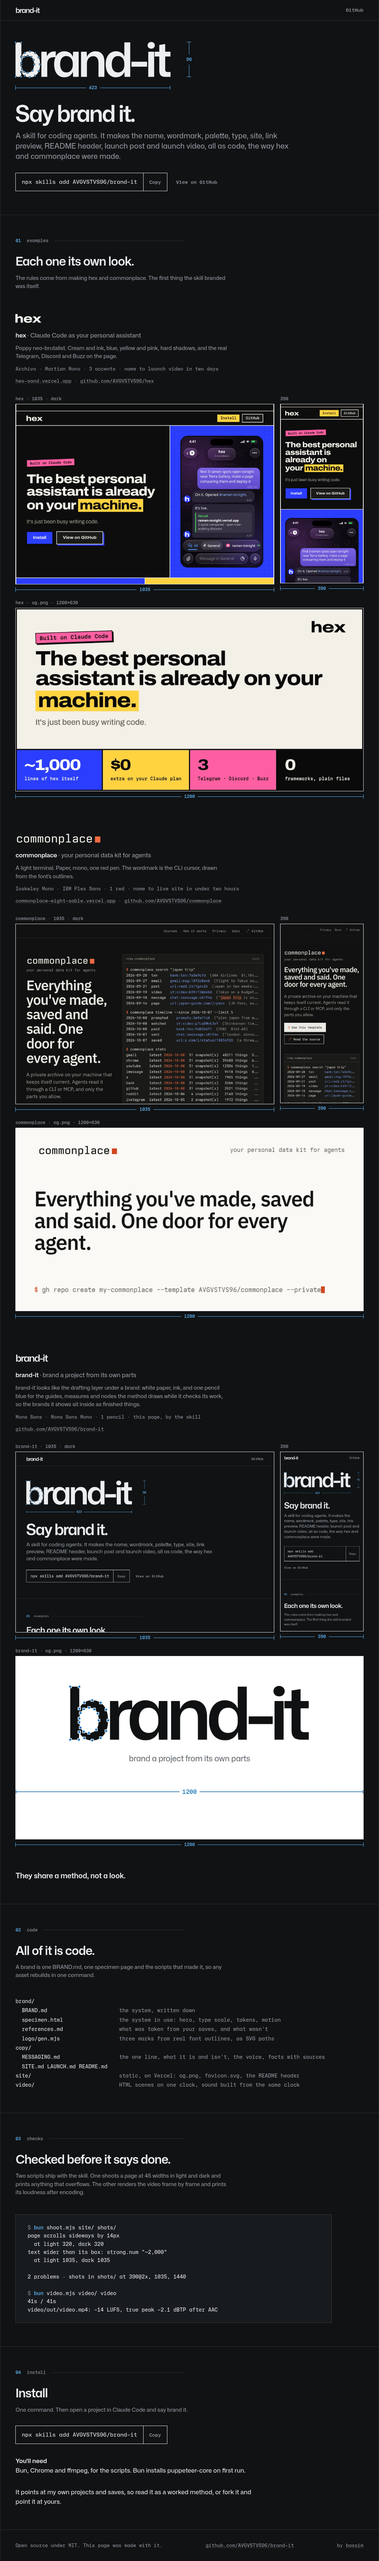
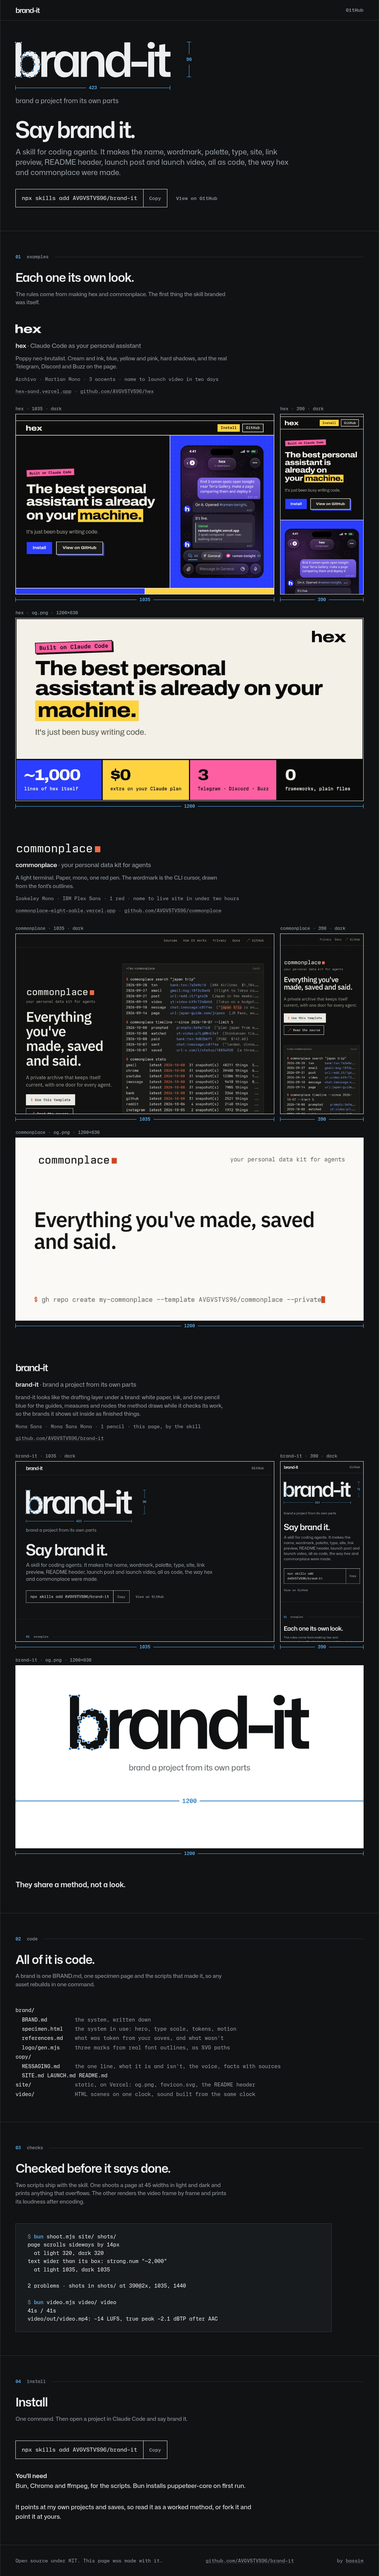
Site: the phone frame label shortens under 840px, fresh self shots with the tagline, the sweep's shots at 390, 1035 and 1440

diff --git a/apps/site/src/style.css b/apps/site/src/style.css
@@ -148,6 +148,10 @@ footer { padding: var(--s6) var(--gutter); border-top: 1px solid var(--hair); di
 footer p { max-width: none; }
 footer a { text-decoration-color: var(--hair); }
 
+@media (max-width: 840px) {
+  .narrow .label .site, .narrow .label .sch { display: none; }
+}
+
 @media (max-width: 640px) {
   .hero { padding-block: var(--s6) var(--s7); }
   .hero-fig { padding-right: 1.75rem; margin-bottom: var(--s6); }
@@ -162,7 +166,6 @@ footer a { text-decoration-color: var(--hair); }
   .tree .in + span { padding-left: 4ch; }
   .tree span:empty { display: none; }
   .tree .wide { margin-bottom: var(--s2); }
-  .narrow .label .site, .narrow .label .sch { display: none; }
   .links i { display: none; }
   .links a { display: block; }
   .term { padding: var(--s4); }
